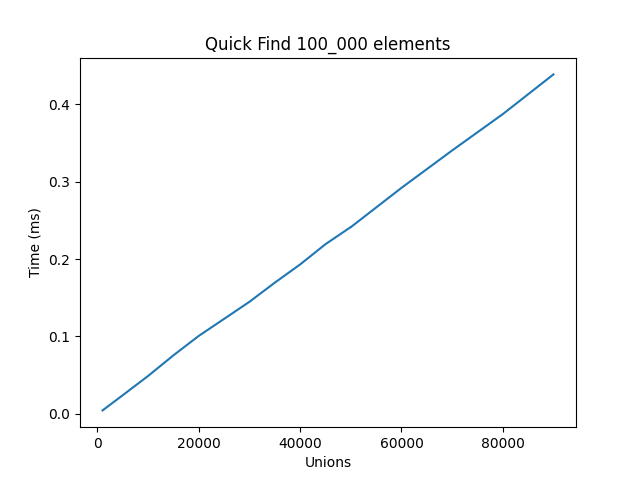
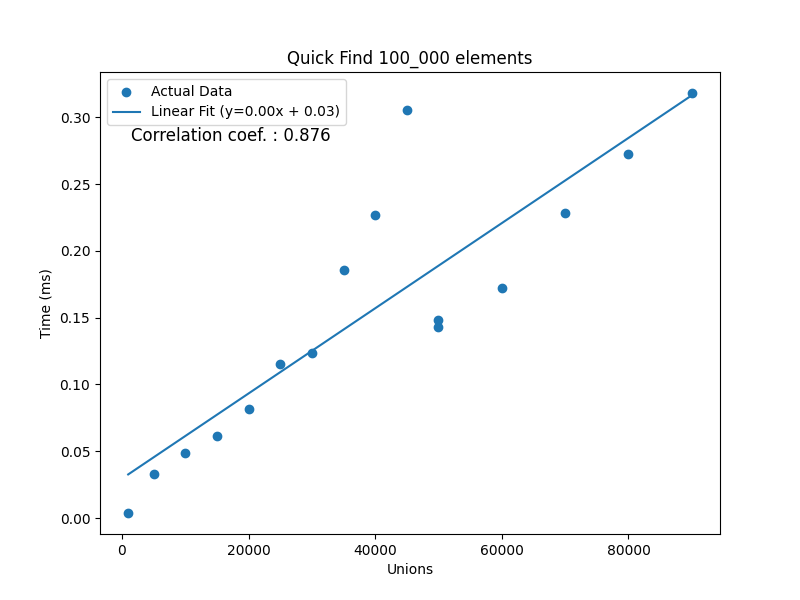
more descriptive plots and requirements file

diff --git a/src/scripts/plotter.py b/src/scripts/plotter.py
@@ -1,19 +1,95 @@
 import matplotlib.pyplot as plt
 import json
 import sys
+import numpy as np
+from scipy.stats import linregress
 
-def plot(graph_path, x, y, x_label, y_label, title) -> None:
+
+
+
+def plot(graph_path:str, x:list[float], y:list[float], x_label:str, y_label:str, title:str, plot_type: str) -> None:
+    """
+    Simple plot for list of x and y values.
+    """
+
+    # Convert data to float arrays.
     x = json.loads(x)
     y = json.loads(y)
-    plt.plot(x, y)
+
+
+    # Get the 
+    if plot_type == "Linear":
+        slope, intercept, r_value = linear_regression(x, y)
+        equation = f'Linear Fit (y={slope:.2f}x + {intercept:.2f})'
+    elif plot_type == "Exponential":
+        slope, intercept, r_value = power_law(x, y)
+        equation = f'Exponential Fit (y={a:.2f} * exp({b:.2f}x))'
+    elif plot_type == "None":
+        equation = None
+        slope = None
+        intercept = None
+        r_value = None
+    else:
+        raise ValueError("Invalid plot_type. Use 'Linear', 'Exponential', or 'None'.")
+
+    # Generate expected values
+    expected_data = generate_expected_data(slope, intercept, x, plot_type)
+
+
+
+    plt.figure(figsize=(8, 6))
+    plt.scatter(x, y, label='Actual Data')
+    if expected_data is not None:
+        plt.plot(x, expected_data, label=equation)
+        plt.text(0.05, 0.85, f'Correlation coef. : {r_value:.3f}', transform=plt.gca().transAxes, fontsize=12)
+
 
     # Add labels and title
     plt.xlabel(x_label)
     plt.ylabel(y_label)
     plt.title(title)
+    plt.legend()
 
     # Save the graph
     plt.savefig(graph_path)
+
+
+def generate_expected_data(slope: float, intercept:float,x: list[float], plot_type:str):
+    """
+    Generate expected values for a given list of values for an indepedent variable
+    accordintg the the type of plot, either linear or exponential.
+    """
+    if plot_type == "Linear":
+        return tuple([(slope*x_val)+intercept for x_val in x])
+    elif plot_type == "Exponential":
+        return tuple([intercept*(x_val**slope) for x_val in x])
+    else:
+        return None
+
+
+def linear_regression(x: list[float], y: list[float]) -> tuple[float, float, float]:
+    """
+    Calculate and return the slope, intercept and linear regression coefficient
+    from the x and y values passed in.
+    """
+    slope, intercept, r_value, _, _ = linregress(x, y)
+    return slope, intercept, r_value
+
+
+def power_law(x: list[float], y: list[float]) -> tuple[float, float, float]:
+    """
+    Calculate power-law eqn for a given set of x and y values.
+    Return in the form [y-intercept, slope]
+    """
+    log_x = np.log2(x)
+    log_y = np.log2(y)
+
+    slope, intercept, coefficient = linear_regression(log_x, log_y)
+
+    a = 2**intercept  # 2 raised to the power of intercept
+    b = slope
+
+    return tuple(b, a, coefficient)
 
 
 def dual_plot(graph_path, x1, y1,x2, y2, x_label, y_label, title) -> None:
@@ -32,7 +108,8 @@ if __name__ == "__main__":
     x_label = sys.argv[4]
     y_label = sys.argv[5]
     title = sys.argv[6]
+    plot_type = sys.argv[7] 
 
-    #print(sys.argv)
+    print(f"{sys.argv} \n")
 
-    plot(graph_path, x, y, x_label, y_label, title)
+    plot(graph_path, x, y, x_label, y_label, title, plot_type)

diff --git a/src/Plotter.java b/src/Plotter.java
@@ -10,11 +10,28 @@ import java.util.Arrays;
  * It also takes in and can change the x label, y label and title.
  */
 public class Plotter {
+
+    public static enum Type {
+        LINEAR("Linear"),
+        EXPONENTIAL("Exponential"),
+        NONE("None");
+
+        private final String type;
+
+        private Type(String type) {
+            this.type = type;
+        }
+
+        public String toString() {
+            return type;
+        }
+    }
     
     private String graphPath = "graphs/";
     private String x_label = "_";
     private String y_label = "_";
     private String title = "_";
+    private Type type = Type.NONE;
 
     private final String KEYWORD = "python";
     private final String SCRIPT_PATH = "src/scripts/plotter.py";
@@ -40,14 +57,31 @@ public class Plotter {
         this.y_label = y_label;
     }
 
+
+    /**
+     * Plot type addition.
+     * @param path
+     * @param x_label
+     * @param y_label
+     * @param type
+     */
+    public Plotter(String path, String x_label, String y_label, Plotter.Type type) {
+        this.type = type;
+        this.graphPath += path;
+        this.x_label = x_label;
+        this.y_label = y_label;
+    }
+
     /**
      * x & y labels, and title additions.
      * @param path
      * @param x_label
      * @param y_label
+     * @param type
      * @param title
      */
-    public Plotter(String path, String x_label, String y_label, String title) {
+    public Plotter(String path, String x_label, String y_label, Plotter.Type type, String title) {
+        this.type = type;
         this.graphPath += path;
         this.x_label = x_label;
         this.y_label = y_label;
@@ -92,6 +126,14 @@ public class Plotter {
     }
 
     /**
+     * Change the plot type.
+     * @param type
+     */
+    public void setType(Type type) {
+        this.type = type;
+    }
+
+    /**
      * Plotter to take in generic arrays of numerical data.
      * These arrays cannot  be primitive types, but can be things such as Integer[] or Float[].
      * @param x
@@ -103,7 +145,7 @@ public class Plotter {
         /**
          * Assemble command to be run.
          */
-        command = new String[]{KEYWORD, SCRIPT_PATH, graphPath, Arrays.toString(x), Arrays.toString(y), x_label, y_label, title};
+        command = new String[]{KEYWORD, SCRIPT_PATH, graphPath, Arrays.toString(x), Arrays.toString(y), x_label, y_label, title, this.type.toString()};
         // System.out.println(Arrays.toString(command));
         try {
             Process p = new ProcessBuilder(command).start();

diff --git a/src/App.java b/src/App.java
@@ -26,15 +26,15 @@ public class App {
         
         WeightedUnionFind wuf = new WeightedUnionFind(UF_SIZE);
         Double[] times = getQfTimesFixedSize(unions, wuf);
-        System.out.println("Graphing WUF FS");
-        plt = new Plotter("uf/FS100_000_WeightedUnionFind.png", "Unions", "Time (ms)","Weighted Union Find 100_000 elements");
+        System.out.println("Graphing WUF FS 100_00");
+        plt = new Plotter("uf/FS100_000_WeightedUnionFind.png", "Unions", "Time (ms)", Plotter.Type.LINEAR,"Weighted Union Find 100_000 elements");
         plt.plot(unions, times);
         wuf = null;
 
         QuickFind qf = new QuickFind(UF_SIZE);
         times = getQfTimesFixedSize(unions, qf);
-        System.out.println("Graphing QF FS");
-        plt = new Plotter("uf/FS100_000_QuickFind.png", "Unions", "Time (ms)","Quick Find 100_000 elements");
+        System.out.println("Graphing QF FS 100_00");
+        plt = new Plotter("uf/FS100_000_QuickFind.png", "Unions", "Time (ms)", Plotter.Type.LINEAR,"Quick Find 100_000 elements");
         plt.plot(unions, times);
         qf = null;
 
@@ -50,15 +50,15 @@ public class App {
 
         wuf = new WeightedUnionFind(UF_SIZE);
         times = getQfTimesFixedSize(unions, wuf);
-        System.out.println("Graphing WUF FS");
-        plt = new Plotter("uf/FS1_000_000_WeightedUnionFind.png", "Unions", "Time (ms)","Weighted Union Find 1_000_000 elements");
+        System.out.println("Graphing WUF FS 1_000_000");
+        plt = new Plotter("uf/FS1_000_000_WeightedUnionFind.png", "Unions", "Time (ms)", Plotter.Type.LINEAR,"Weighted Union Find 1_000_000 elements");
         plt.plot(unions, times);
         wuf = null;
 
         qf = new QuickFind(UF_SIZE);
         times = getQfTimesFixedSize(unions, qf);
-        System.out.println("Graphing QF FS");
-        plt = new Plotter("uf/FS1_000_000_QuickFind.png", "Unions", "Time (ms)","Quick Find 1_000_000 elements");
+        System.out.println("Graphing QF FS 1_000_000");
+        plt = new Plotter("uf/FS1_000_000_QuickFind.png", "Unions", "Time (ms)", Plotter.Type.LINEAR,"Quick Find 1_000_000 elements");
         plt.plot(unions, times);
         qf = null;
     }
